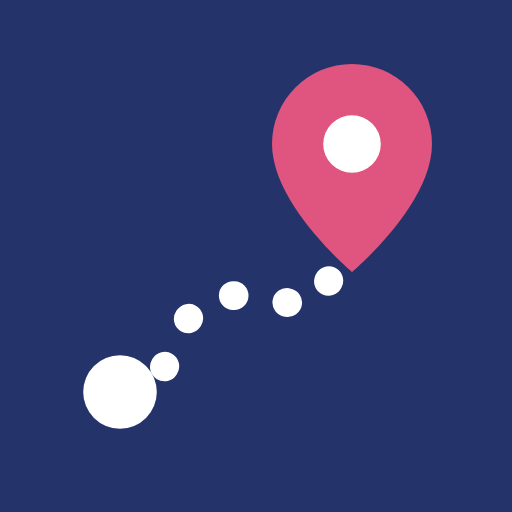
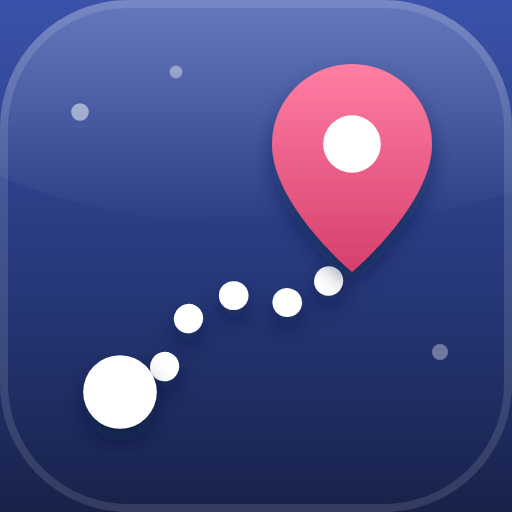
참고 사이트 반영: 입체감 있는 앱 아이콘, 굵은 링크 썸네일, 표지 카드
- icon.museum 스타일로 앱 아이콘에 광택·그림자 추가 (planner/brand/icon.svg)
- ogfolio 스타일로 링크 썸네일을 진한 배경과 큰 제목으로 변경
- admiretheweb 스타일로 여행 목록을 썸네일 표지 카드로, 첫 방문 안내 팝업에 표지 이미지

Claude-Session: https://claude.ai/code/session_014PvvS6ZviGziWbftq7rfiF

diff --git a/planner/tools/render-assets.js b/planner/tools/render-assets.js
@@ -5,6 +5,7 @@ const fs = require('fs'), path = require('path');
 const ROOT = path.resolve(__dirname, '../..');
 const BRAND = path.join(ROOT, 'planner/brand');
 const mark = fs.readFileSync(path.join(BRAND, 'mark.svg'), 'utf8');
+const icon = fs.readFileSync(path.join(BRAND, 'icon.svg'), 'utf8');
 const themes = JSON.parse(fs.readFileSync(path.join(ROOT, 'planner/themes.json'), 'utf8'));
 const css = fs.readFileSync(path.join(ROOT, 'planner/style.css'), 'utf8');
 const FONTS = '<link rel="stylesheet" href="https://fonts.googleapis.com/css2?family=Do+Hyeon&family=Jua&family=Gowun+Dodum&family=Gowun+Batang:wght@700&family=Black+Han+Sans&family=Gaegu:wght@700&family=IBM+Plex+Mono:wght@500&family=Noto+Sans+KR:wght@400;700&display=block">';
@@ -14,27 +15,36 @@ const ymd = s => s.replace(/-/g, '.');
 function og({ theme, eyebrow, title, when, days }) {
   const t = esc(title).replace(/\*(.+?)\*/g, '<em>$1</em>');
   return `<!doctype html><meta charset="utf-8">${FONTS}<style>${css}
-  html,body{margin:0;width:1200px;height:630px;overflow:hidden;background:var(--paper)}
-  .og{position:relative;width:1200px;height:630px;box-sizing:border-box;padding:72px 80px;display:flex;flex-direction:column;
-    background:radial-gradient(900px 500px at 105% -10%,var(--acc-soft),transparent 60%),radial-gradient(700px 500px at -10% 120%,var(--pri-soft),transparent 60%),var(--paper)}
-  .og:after{content:"";position:absolute;left:0;right:0;bottom:0;height:22px;background:var(--band)}
-  .brand{display:flex;align-items:center;gap:16px;font-family:"Do Hyeon";font-size:34px;color:var(--pri)}
-  .brand svg{width:60px;height:60px}
-  .eb{margin-top:auto;font-family:"IBM Plex Mono";font-size:26px;letter-spacing:.14em;color:var(--muted)}
-  h1{font-family:var(--f-display);font-weight:400;font-size:104px;line-height:1.05;margin:14px 0 22px;color:var(--pri);letter-spacing:-.01em}
-  h1 em{font-style:normal;color:var(--acc);background:linear-gradient(transparent 64%,var(--acc-soft) 64%)}
-  .days{display:flex;gap:12px;flex-wrap:wrap;margin-bottom:26px}
-  .days span{font:700 24px "Noto Sans KR";padding:10px 18px;border-radius:999px;background:var(--surface);border:2px solid var(--line);color:var(--ink)}
-  .days span b{color:var(--acc);margin-right:8px}
-  .hand{position:absolute;right:84px;top:76px;font:700 34px "Gaegu";color:var(--acc);transform:rotate(-4deg)}
+  html,body{margin:0;width:1200px;height:630px;overflow:hidden}
+  .og{position:relative;width:1200px;height:630px;box-sizing:border-box;padding:64px 76px;display:flex;flex-direction:column;overflow:hidden;color:#fff;
+    background:radial-gradient(700px 520px at 92% 8%,color-mix(in srgb,var(--acc) 38%,transparent),transparent 65%),linear-gradient(160deg,color-mix(in srgb,var(--pri) 88%,#fff),var(--pri) 45%,color-mix(in srgb,var(--pri) 70%,#000))}
+  .og:after{content:"";position:absolute;left:0;right:0;bottom:0;height:18px;background:var(--band);filter:brightness(2.2) saturate(.8);opacity:.7}
+  .brand{display:flex;align-items:center;gap:16px;font-family:"Do Hyeon";font-size:32px;color:#fff;position:relative}
+  .brand svg{width:58px;height:58px;border-radius:15px;box-shadow:0 6px 18px rgba(0,0,0,.3),0 0 0 2px rgba(255,255,255,.18)}
+  .eb{margin-top:auto;font-family:"IBM Plex Mono";font-size:25px;letter-spacing:.16em;color:rgba(255,255,255,.72);position:relative}
+  h1{font-family:var(--f-display);font-weight:400;font-size:128px;line-height:1.02;margin:10px 0 26px;letter-spacing:-.015em;position:relative;max-width:900px;text-wrap:balance}
+  h1 em{font-style:normal;color:color-mix(in srgb,var(--acc) 45%,#fff)}
+  .meta{display:flex;align-items:center;gap:18px;position:relative;font:700 27px "Noto Sans KR"}
+  .meta .pill{padding:10px 20px;border-radius:999px;background:rgba(255,255,255,.14);border:1.5px solid rgba(255,255,255,.28);font-family:"IBM Plex Mono";font-weight:500;font-size:24px}
+  .meta .hand{font:700 36px "Gaegu";color:color-mix(in srgb,var(--acc) 40%,#fff);transform:rotate(-3deg)}
+  svg.deco{position:absolute;right:20px;top:10px;width:560px;height:560px}
+  .p{position:absolute;border-radius:60% 0 60% 0;background:color-mix(in srgb,var(--acc) 50%,#fff);opacity:.55}
   </style><body class="theme-${theme}"><div class="og">
-  <div class="brand">${mark}여행 플래너</div><div class="hand">${esc(when.hand || '')}</div>
+  <svg class="deco" viewBox="0 0 560 560" aria-hidden="true">
+    <path d="M210 440 C 300 450 250 330 330 330 S 430 360 440 230" fill="none" stroke="rgba(255,255,255,.55)" stroke-width="10" stroke-linecap="round" stroke-dasharray="0.1 30"/>
+    <circle cx="210" cy="440" r="16" fill="rgba(255,255,255,.7)"/>
+    <g transform="translate(440 120)"><path d="M0 -10a72 72 0 0 1 72 72c0 55-72 118-72 118s-72-63-72-118a72 72 0 0 1 72-72z" transform="translate(0 -10)" fill="color-mix(in srgb,var(--acc) 75%,#fff)" opacity=".95"/><circle cx="0" cy="52" r="26" fill="var(--pri)"/></g>
+  </svg>
+  <i class="p" style="width:26px;height:26px;left:610px;top:90px;transform:rotate(20deg)"></i>
+  <i class="p" style="width:18px;height:18px;left:700px;top:430px;transform:rotate(-30deg)"></i>
+  <i class="p" style="width:22px;height:22px;left:1090px;top:470px;transform:rotate(60deg)"></i>
+  <i class="p" style="width:14px;height:14px;left:540px;top:260px"></i>
+  <div class="brand">${icon}여행 플래너</div>
   <div class="eb">${esc(eyebrow)}</div><h1>${t}</h1>
-  <div class="days">${days.map((d, i) => `<span><b>${i + 1}</b>${esc(d)}</span>`).join('')}</div>
-  <div class="eb" style="margin-top:0;font-size:24px">${esc(when.text)}</div></div>`;
+  <div class="meta"><span class="pill">${esc(when.text)}</span>${when.hand ? `<span class="hand">${esc(when.hand)}</span>` : ''}</div></div>`;
 }
 
-const iconHTML = (size, pad) => `<!doctype html><style>html,body{margin:0;background:#24346b}svg{display:block;width:${size}px;height:${size}px}</style>${pad ? mark.replace('rx="16"', 'rx="0"') : mark}`;
+const iconHTML = (size, pad) => `<!doctype html><style>html,body{margin:0;background:#24346b}svg{display:block;width:${size}px;height:${size}px}</style>${pad ? icon.replace('rx="16"', 'rx="0"') : icon}`;
 
 (async () => {
   const b = await chromium.launch();

diff --git a/planner/style.css b/planner/style.css
@@ -376,3 +376,17 @@ dialog.sheet .sheet-b>*{animation:rise .35s .05s cubic-bezier(.2,.7,.2,1) both}
  @view-transition{navigation:none}
  .brand .route,.brand svg path[fill="#e0557f"],.steps li,dialog.sheet .sheet-b>*{animation:none;stroke-dashoffset:0}
 }
+/* 참고 사이트 반영: 갤러리형 표지 카드, 표지 이미지가 있는 안내 팝업 */
+.wl-cover{display:block;width:calc(100% + 32px);max-width:none;height:auto;margin:-16px -16px 16px;aspect-ratio:1200/630;object-fit:cover}
+dialog.sheet.welcome .sheet-b{padding-top:16px}
+a.trip.has-cover{padding:0;overflow:hidden;border-top-width:1px;gap:0}
+a.trip.has-cover>:not(.cover){margin-left:18px;margin-right:18px}
+a.trip.has-cover .dday{margin-top:16px;margin-bottom:6px}
+a.trip.has-cover .intro{margin:6px 18px 18px}
+a.trip .cover{display:block;width:100%;height:auto;aspect-ratio:1200/630;object-fit:cover;transition:transform .6s cubic-bezier(.2,.7,.2,1)}
+a.trip.has-cover:hover .cover{transform:scale(1.03)}
+.trips{grid-template-columns:repeat(auto-fill,minmax(min(100%,340px),1fr))}
+@media (prefers-reduced-motion: reduce){a.trip .cover{transition:none}}
+dialog.sheet .x:focus:not(:focus-visible){outline:none}
+a.trip.has-cover .ttl{position:absolute;width:1px;height:1px;overflow:hidden;clip-path:inset(50%)}
+a.trip.has-cover{position:relative}

diff --git a/planner/build.py b/planner/build.py
@@ -371,8 +371,9 @@ def render_trip(slug, t):
              ("우리의 픽", "가고 싶은 곳에 하트를 눌러 저장하면 누가 고른 곳인지" + (f"({names})" if names else "") + " 장소마다 보여요. 나중에 '픽 수정'으로 바꿀 수 있어요."),
              ("캘린더·공유", "'캘린더에 추가'는 아이폰 캘린더에 일정을 넣고, '일행에게 공유'는 이 페이지 링크를 보내요.")]
     w(sheet("welcome", "이렇게 보면 돼요", e(t.get("short", "")) + " 여행 페이지 사용법",
+            '<img class="wl-cover" src="og.png" alt="" width="1200" height="630">'
             '<ol class="steps">' + "".join(f'<li><b>{e(a)}</b><span>{e(b)}</span></li>' for a, b in steps) + '</ol>'
-            '<div class="row"><button type="button" class="btn primary" data-close autofocus>시작하기</button></div>').replace('<dialog class="sheet"', f'<dialog class="sheet welcome" data-auto="tp-welcome-{e(slug)}"', 1))
+            '<div class="row"><button type="button" class="btn primary" data-close>시작하기</button></div>').replace('<dialog class="sheet"', f'<dialog class="sheet welcome" data-auto="tp-welcome-{e(slug)}"', 1))
     days_txt = " / ".join(d["theme"] for d in t["days"])
     og = {"title": t.get("short", t["title"]) + " 여행 · " + t["start"].replace("-", ".") + "~",
           "desc": f'{nights}박 {nights + 1}일 일정과 지도: {days_txt}', "image": f"trips/{slug}/og.png", "path": f"trips/{slug}/"}
@@ -460,7 +461,9 @@ def render_home(trips):
         s, z = d_of(t["start"]), d_of(t["end"])
         n = (z - s).days
         color = t["days"][0]["color"] if t.get("days") else "hakata"
-        cards.append(f'<a class="trip theme-{e(t.get("theme", "hakata"))} c-{e(color)}" href="trips/{e(slug)}/"><span class="dday" data-start="{t["start"]}" data-end="{t["end"]}">{s:%Y.%m}</span>'
+        has_og = os.path.isfile(os.path.join(ROOT, "trips", slug, "og.png"))
+        cover = f'<img class="cover" src="trips/{e(slug)}/og.png" alt="" width="1200" height="630" loading="lazy">' if has_og else ""
+        cards.append(f'<a class="trip theme-{e(t.get("theme", "hakata"))} c-{e(color)}{" has-cover" if has_og else ""}" href="trips/{e(slug)}/">{cover}<span class="dday" data-start="{t["start"]}" data-end="{t["end"]}">{s:%Y.%m}</span>'
                      f'<span class="ttl">{e(t["title"].replace("*", ""))}</span><span class="when">{s:%Y.%m.%d} — {z:%m.%d} · {n}박 {n + 1}일 · {e(t.get("country", ""))}</span>'
                      f'<span class="intro">{e(t.get("intro", ""))}</span></a>')
     body = f'''<header class="hero"><div class="wrap">
